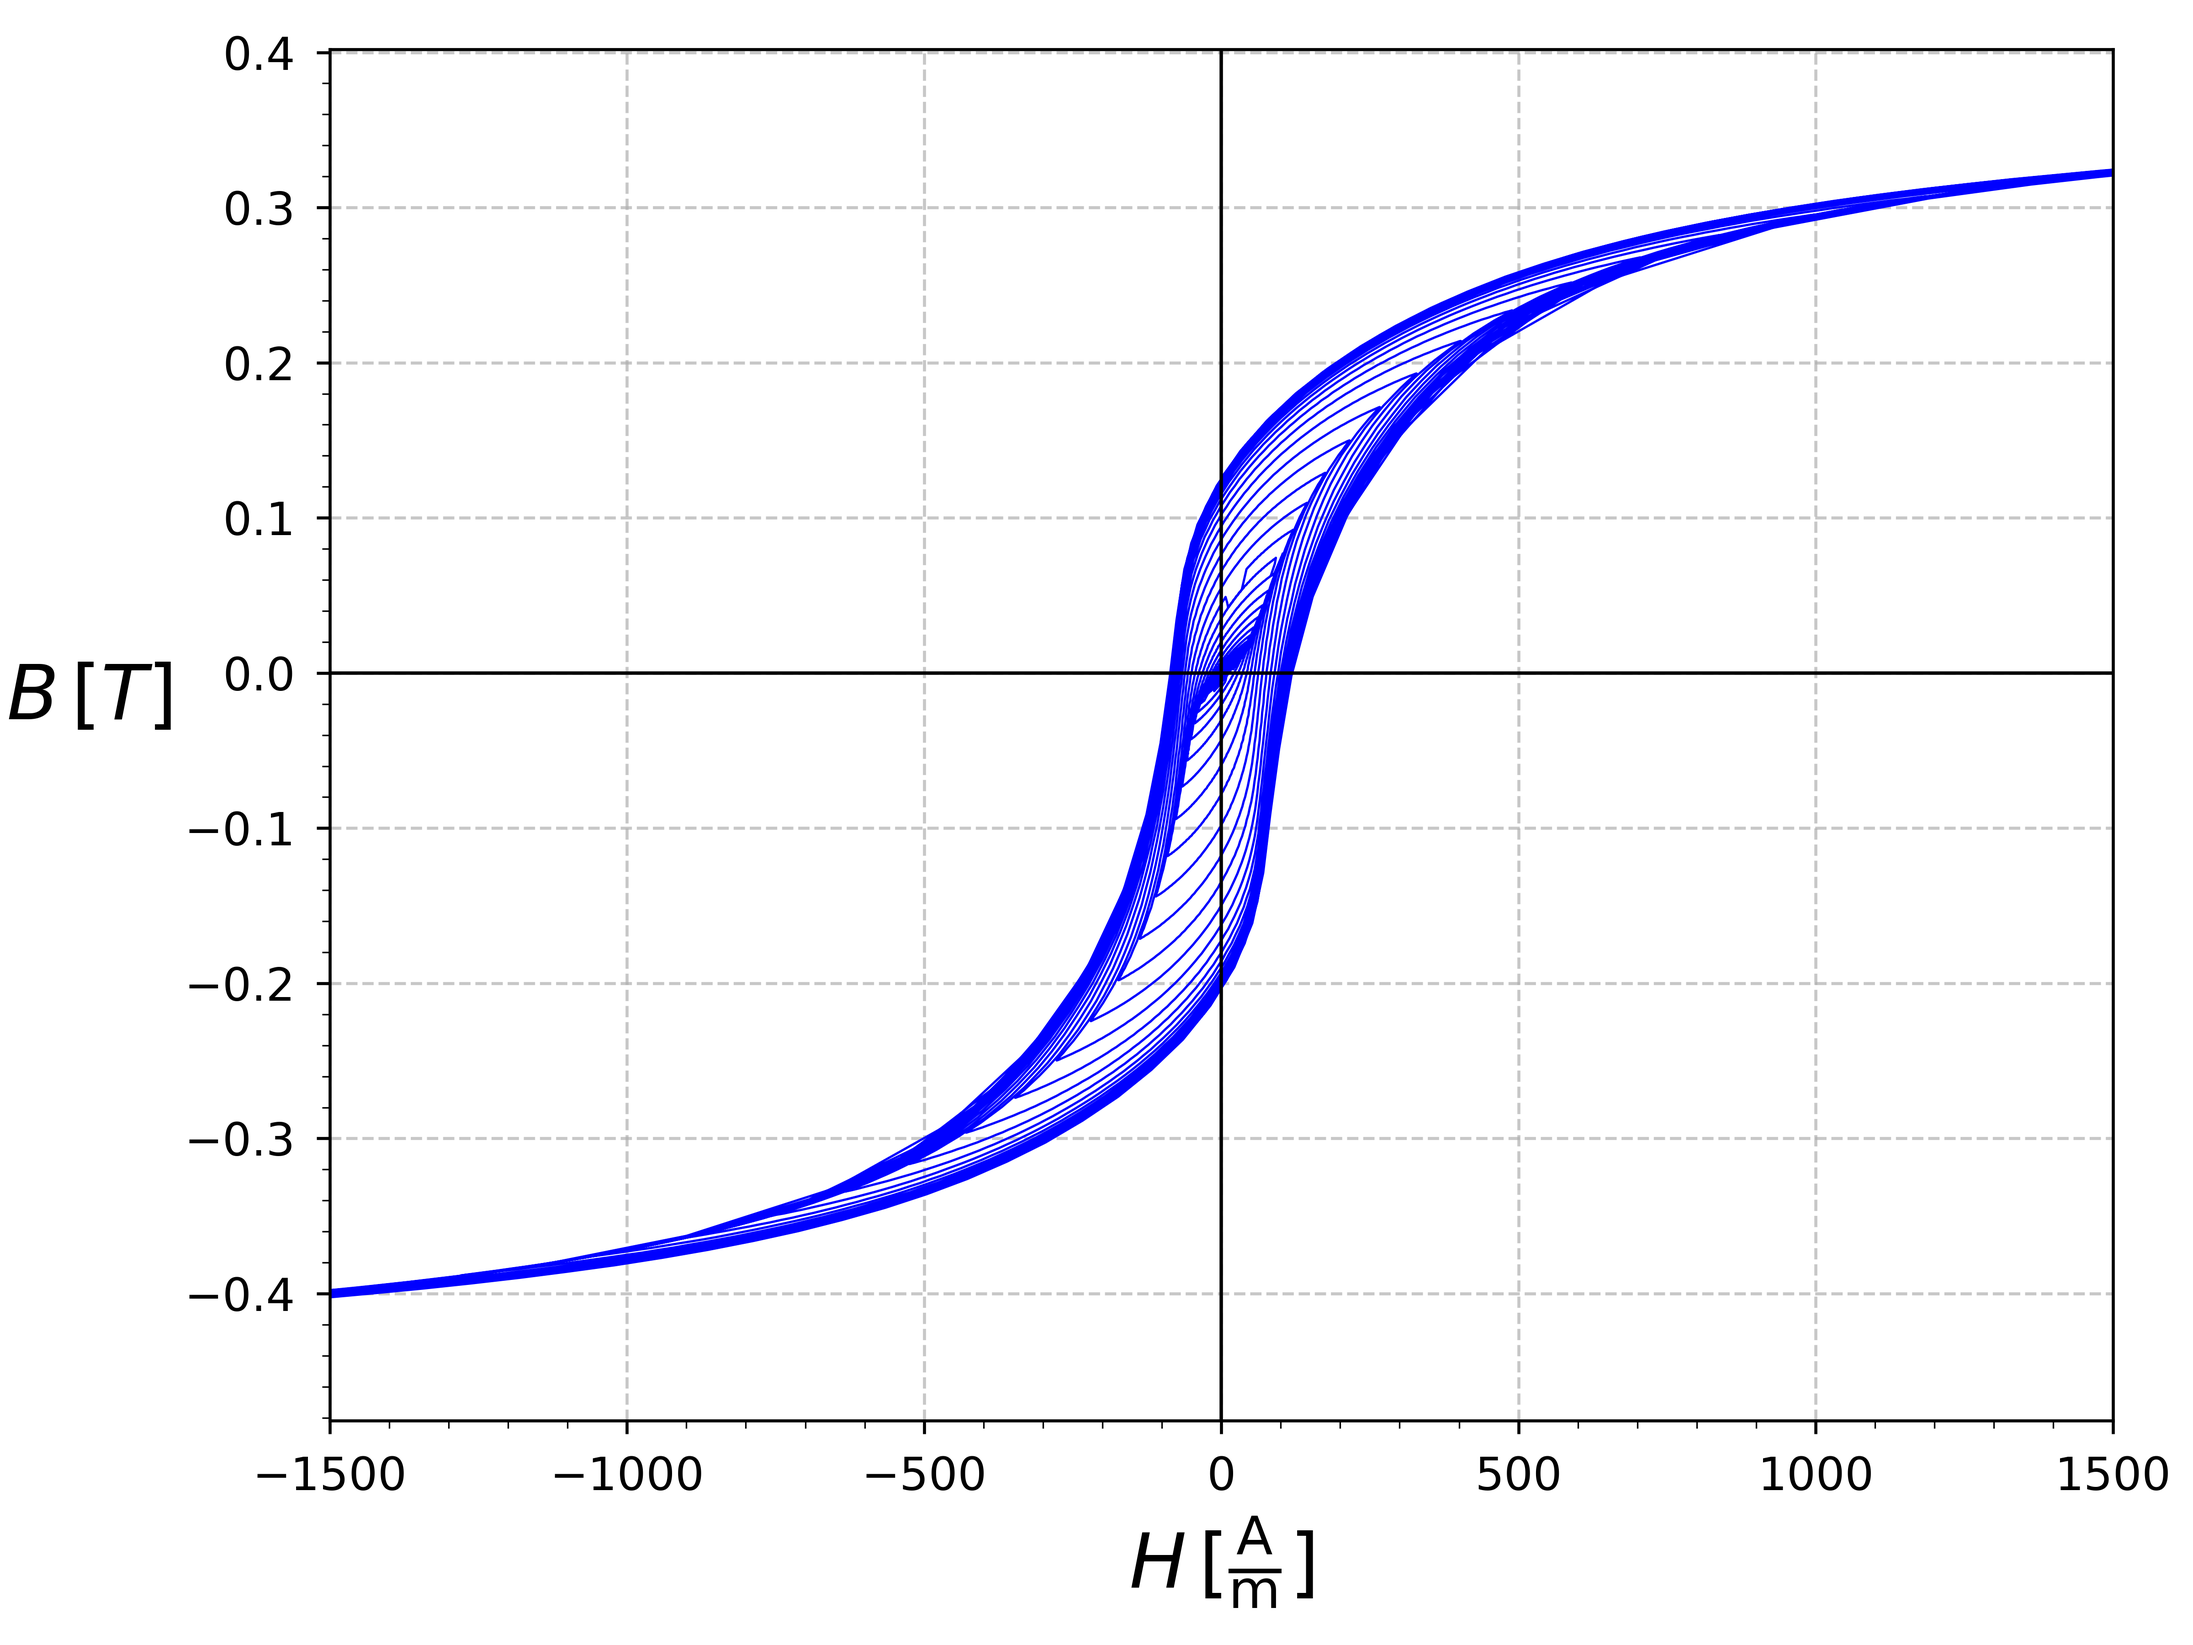
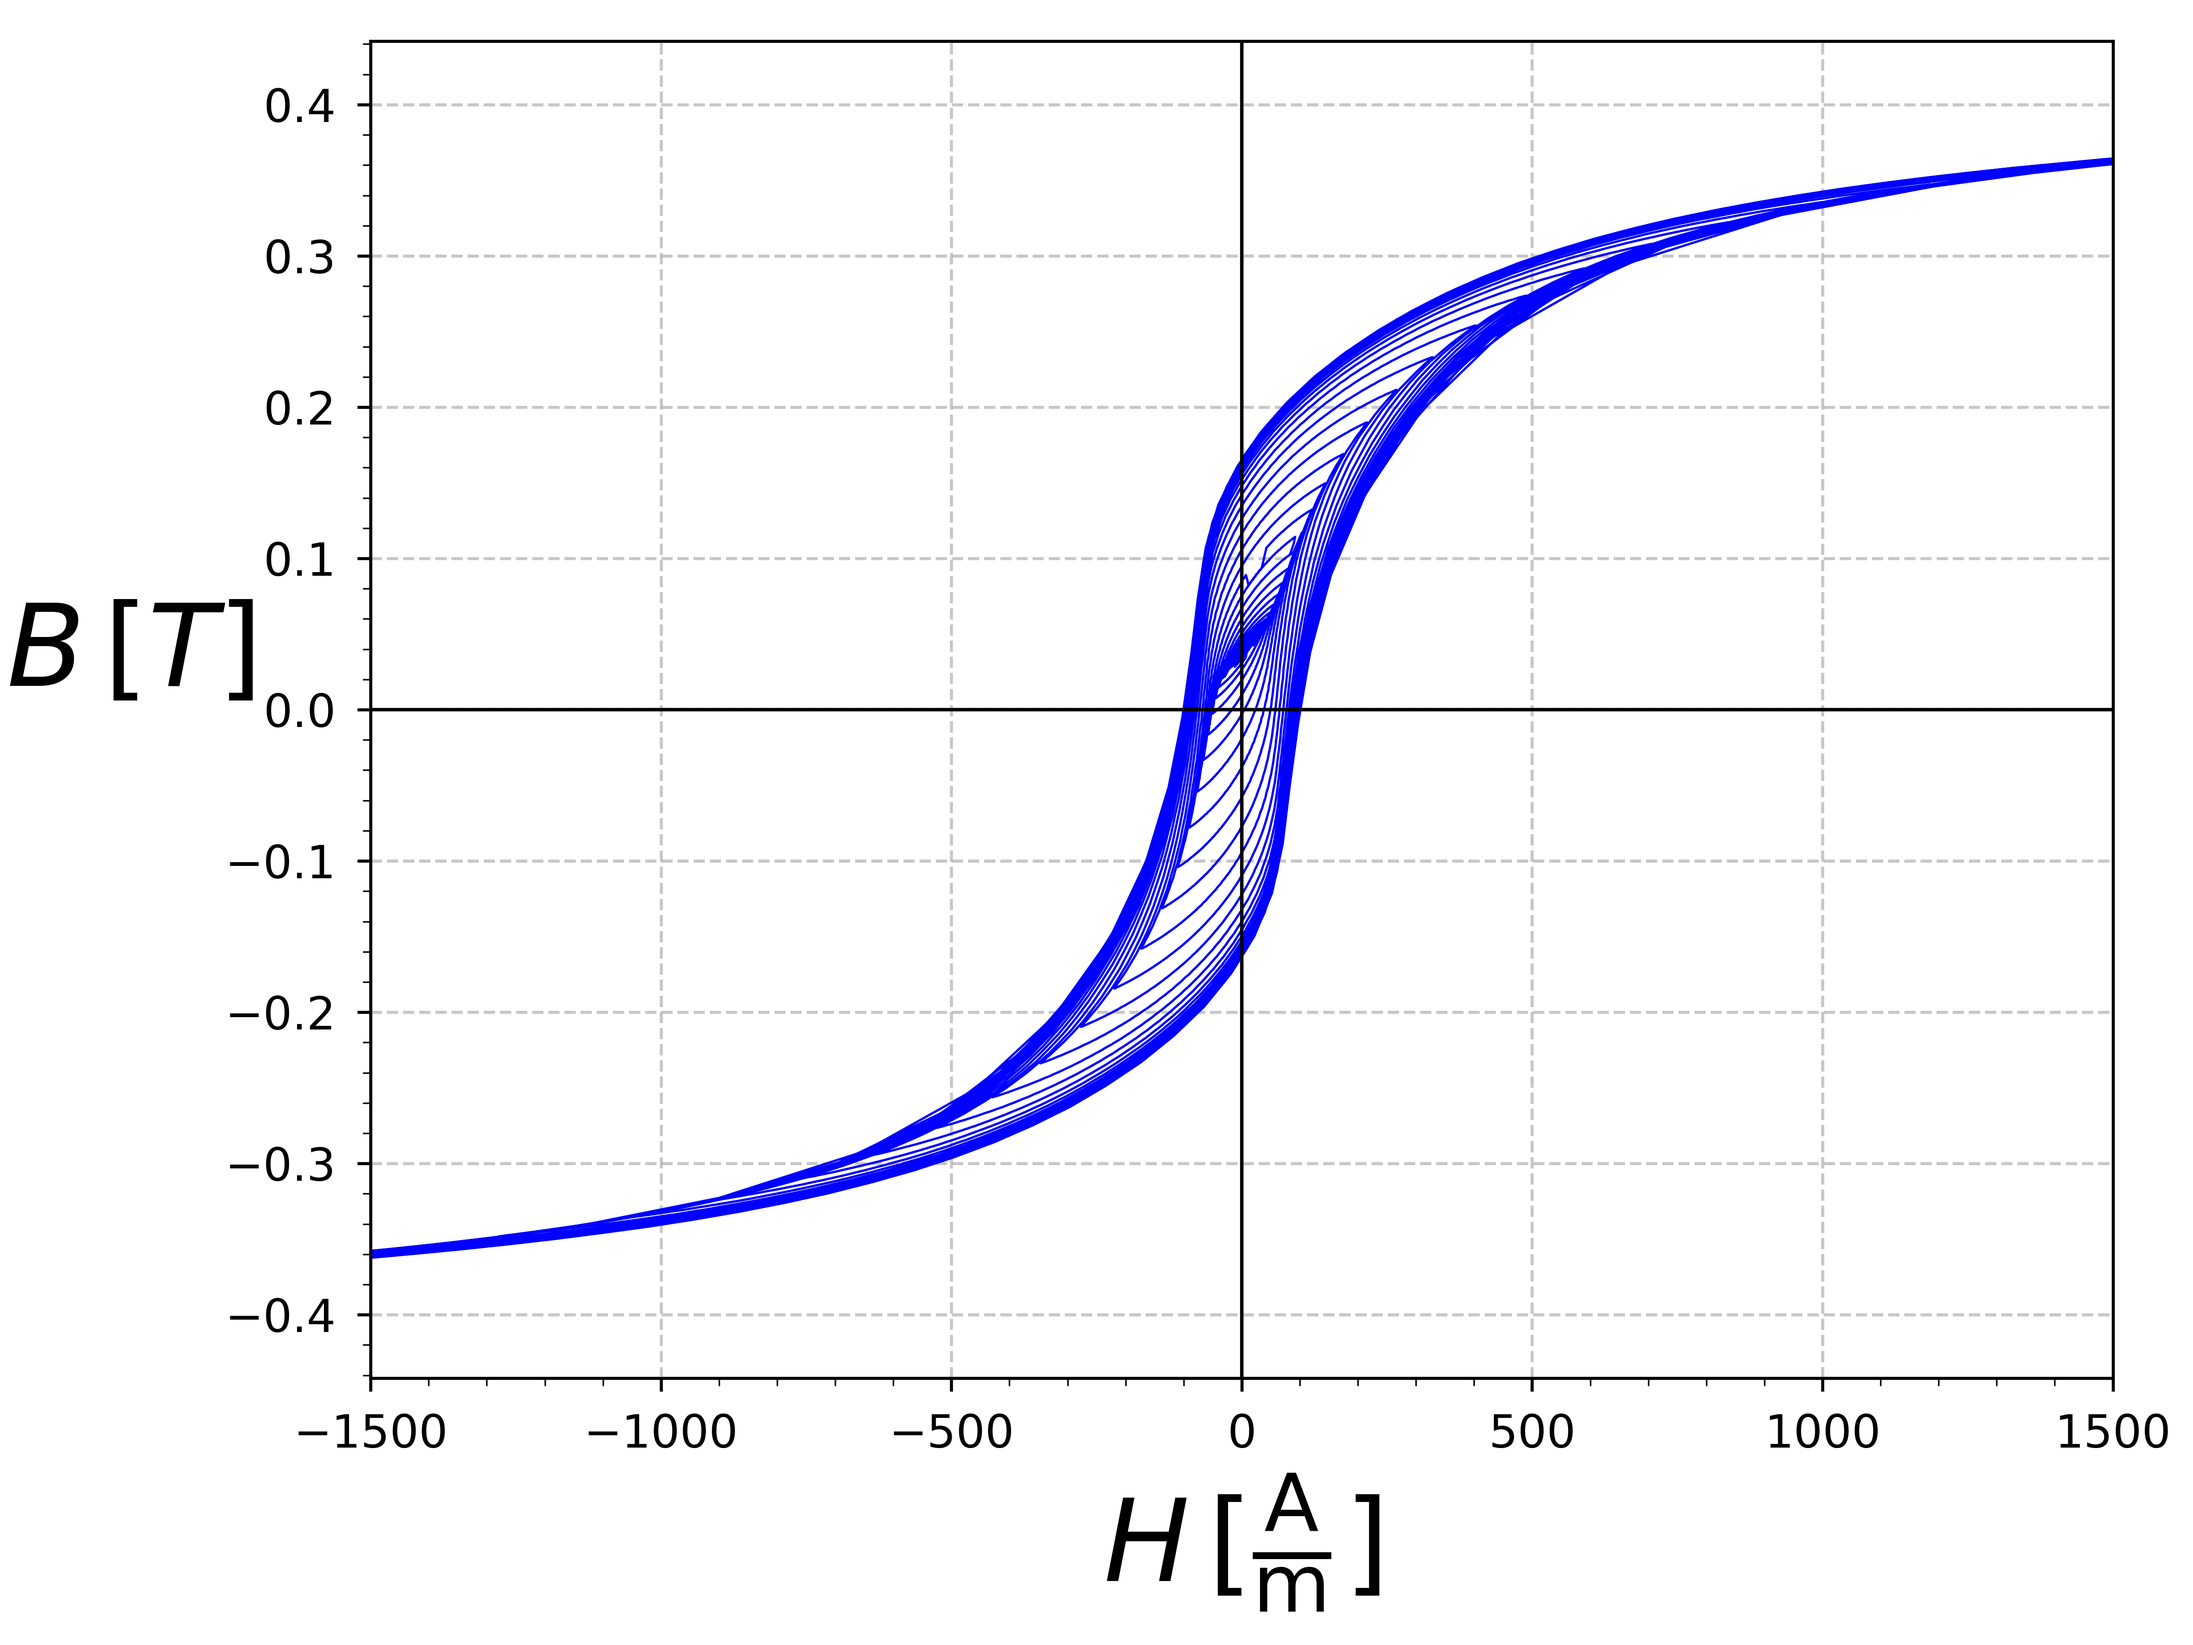
aaaaaa

diff --git a/eMagnet.py b/eMagnet.py
@@ -1,39 +1,63 @@
 import numpy as np
 import matplotlib.pyplot as plt
+from scipy.optimize import curve_fit
 
 # Read the CSV file and replace commas with dots
-data = np.genfromtxt('data/magnetMessung.csv',
-                     delimiter=',',
-                     skip_header=1)
-
-print(data)
-# Convert the processed string data to a numpy array
+data = np.genfromtxt('data/magnetMessung.csv', delimiter=',', skip_header=1)
 
 # Extract the 1st and 4th columns (x and y respectively)
 x = data[:, 0]  # First column for x-axis
 y = data[:, 3]  # Fourth column for y-axis
 
+# Ensure all x values are positive for logarithmic fitting
+valid_indices = x > 0
+xl = x[valid_indices]
+yl = y[valid_indices]
+
 # Create the plot
 plt.figure(figsize=(8, 6))
-plt.plot(x, y, '-bs', linewidth=2)
+plt.plot(x, y, '-bs', linewidth=2, label='Messpunkte')
+
+
+# Define the shifted logarithmic function
+def shifted_ln_func(x, a, b, c):
+    return a * np.log(x + c) + b
+
+
+# Perform curve fitting with a shift in the logarithmic function
+popt, pcov = curve_fit(shifted_ln_func, x, y,
+                       p0=[1, 1, 0.1])  # Initial guesses for a, b, c
+a, b, c = popt
+
+# Generate the regression curve
+x_fit = np.linspace(min(x), max(xl), 500)
+y_fit = shifted_ln_func(x_fit, a, b, c)
+
+# Plot the regression curve
+plt.plot(x_fit,
+         y_fit,
+         label=f'Approximierte ln-Funktion',
+         color='red')
 
 # Add labels to the axes
-plt.xlabel('I [A]', fontsize=14)
-plt.ylabel('B [T]', fontsize=14)
-
-plt.xlabel(r'$I \, \left[A\right]$', fontsize=20, loc='center')
+plt.xlabel(r'$I \, \left[A\right]$', fontsize=30, loc='center')
 plt.ylabel(r'$B \, \left[T\right]$',
-           fontsize=20,
+           fontsize=30,
            rotation=0,
-           labelpad=25,
+           labelpad=40,
            loc='center')
 
-plt.ylim((0,2))
-plt.xlim((0,30))
+# Set axis limits
+plt.ylim((0, 2))
+plt.xlim((0, 30))
 
-# Display grid and the plot
+# Display grid and customize the plot
 plt.grid(True)
+plt.legend(fontsize=14)
 plt.tight_layout()
 
+# Save the plot
 plt.savefig('eMagnet.png', dpi=600)
+
+# Show the plot
 plt.show()

diff --git a/tempCodeRunnerFile.py b/tempCodeRunnerFile.py
@@ -1,1 +1,51 @@
-plt.xlim(np.min(H)+1500, np.max(H)-1500)
+import numpy as np
+import matplotlib.pyplot as plt
+import scipy.optimize as curve_fit
+
+# Read the CSV file and replace commas with dots
+data = np.genfromtxt('data/magnetMessung.csv', delimiter=',', skip_header=1)
+
+# Convert the processed string data to a numpy array
+
+# Extract the 1st and 4th columns (x and y respectively)
+x = data[:, 0]  # First column for x-axis
+y = data[:, 3]  # Fourth column for y-axis
+
+# Create the plot
+plt.figure(figsize=(8, 6))
+plt.plot(x, y, '-bs', linewidth=2)
+
+
+def ln_func(x, a, b):
+    return a * np.log(x) + b
+
+# Perform curve fitting (logarithmic regression)
+popt, pcov = curve_fit(ln_func, x, y)
+a, b = popt
+
+x_fit = np.linspace(min(x_data), max(x_data), 500)
+y_fit = ln_func(x_fit, a, b)
+
+plt.plot(x_fit,
+         y_fit,
+         label=f'Fitted ln(x) Function: {a:.2f}ln(x) + {b:.2f}',
+         color='red')
+
+
+# Add labels to the axes
+plt.xlabel(r'$I \, \left[A\right]$', fontsize=30, loc='center')
+plt.ylabel(r'$B \, \left[T\right]$',
+           fontsize=30,
+           rotation=0,
+           labelpad=40,
+           loc='center')
+
+plt.ylim((0, 2))
+plt.xlim((0, 30))
+
+# Display grid and the plot
+plt.grid(True)
+plt.tight_layout()
+
+plt.savefig('eMagnet.png', dpi=600)
+plt.show()

diff --git a/Neukurve.py b/Neukurve.py
@@ -7,12 +7,14 @@ with open('data/NeukurveInvertiert.dat', 'r') as file:
     data = file.read().replace(',', '.')
 
 data = np.genfromtxt(data.splitlines())
-# Ersten 32 in gruen
+# Ersten 100 in gruen
+
+data[:,2] = data[:,2] - ((np.max(data[:, 2]) + np.min(data[:,2])) * 0.5)
+
 Hn = -1 * data[:100, 1] * 1078.14
 Bn = -1 * data[:100, 2] * 0.29389
 H = -1 * data[100:, 1] * 1078.14
 B = -1 * data[100:, 2] * 0.29389
-#B = B - ((np.max(B) + np.min(B)) * 0.5)
 
 plt.style.use('seaborn-v0_8-paper')
 plt.figure(figsize=(8, 6))
@@ -22,9 +24,9 @@ plt.plot(Hn, Bn, color='green', linewidth=2)
 plt.grid(True, linestyle='--', alpha=0.7)
 plt.tight_layout()
 
-plt.xlabel(r'$H \, [\mathrm{\frac{A}{m}}]} $', fontsize=20)
+plt.xlabel(r'$H \, [\mathrm{\frac{A}{m}}]} $', fontsize=30)
 plt.ylabel(r'$B \, \left[T\right]$',
-           fontsize=20,
+           fontsize=30,
            rotation=0,
            labelpad=25,
            loc='center')

diff --git a/mu.py b/mu.py
@@ -20,15 +20,12 @@ plt.figure(figsize=(8, 6))
 
 plt.plot(H, B, color='blue', linewidth=2)
 
-plt.xlabel(r'$H \, \left[\frac{\mathrm{A}}{\mathrm{m}}\right]$',
-           fontsize=20,
+plt.xlabel(r'$H \, \left[ A / m\right]$', fontsize=30, loc='center')
+plt.ylabel(r'$\mu_{\mathrm{r diff}} \, \left[ Vs / Am \right]$',
+           fontsize=30,
+           rotation=0,
+           labelpad=75,
            loc='center')
-plt.ylabel(
-    r'$\mu_{\mathrm{r}} \, \left[\frac{\mathrm{Vs}}{\mathrm{Am}}\right]$',
-    fontsize=20,
-    rotation=0,
-    labelpad=30,
-    loc='center')
 plt.ylim(bottom=0)
 plt.xlim(np.min(H), np.max(H))
 plt.grid(True, linestyle='--', alpha=0.7)

diff --git a/entmagnetisierung.py b/entmagnetisierung.py
@@ -13,16 +13,16 @@ data = np.genfromtxt(data.splitlines())
 # Extract the 2nd and 3rd columns (H and B respectively)
 H = data[:, 1] * 1087.14
 B = data[:, 2] * 0.2938
-B = B - ((np.max(B) + np.min(B)) * 0.5) - 0.04
+B = B - ((np.max(B) + np.min(B)) * 0.5)
 
 plt.style.use('seaborn-v0_8-paper')
 plt.figure(figsize=(8, 6))
 
 plt.plot(H, B, color='blue', linewidth=0.6)
 
-plt.xlabel(r'$H \, [\mathrm{\frac{A}{m}}]} $', fontsize=20)
+plt.xlabel(r'$H \, [\mathrm{\frac{A}{m}}]} $', fontsize=30)
 plt.ylabel(r'$B \, \left[T\right]$',
-           fontsize=20,
+           fontsize=30,
            rotation=0,
            labelpad=25,
            loc='center')
